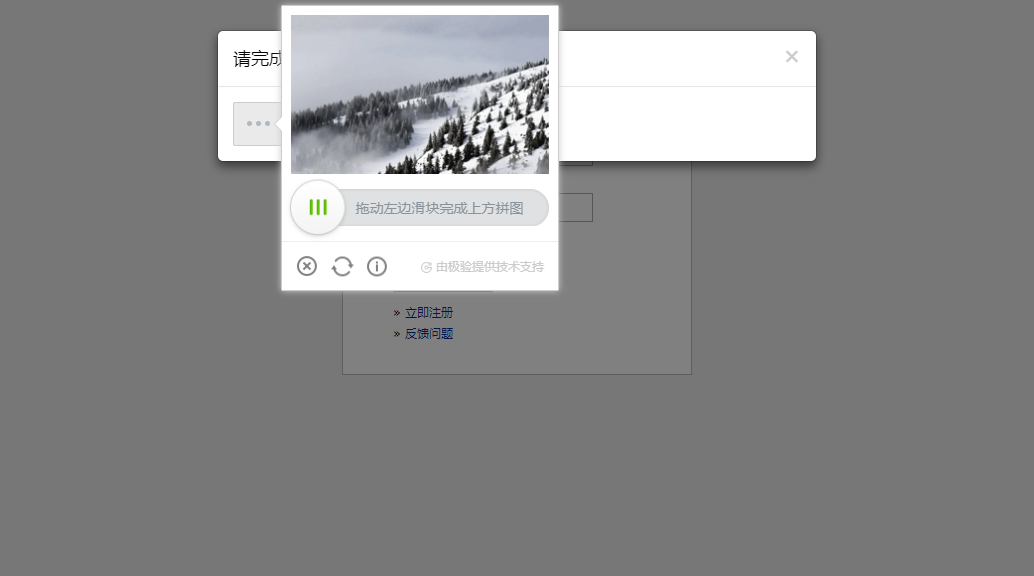
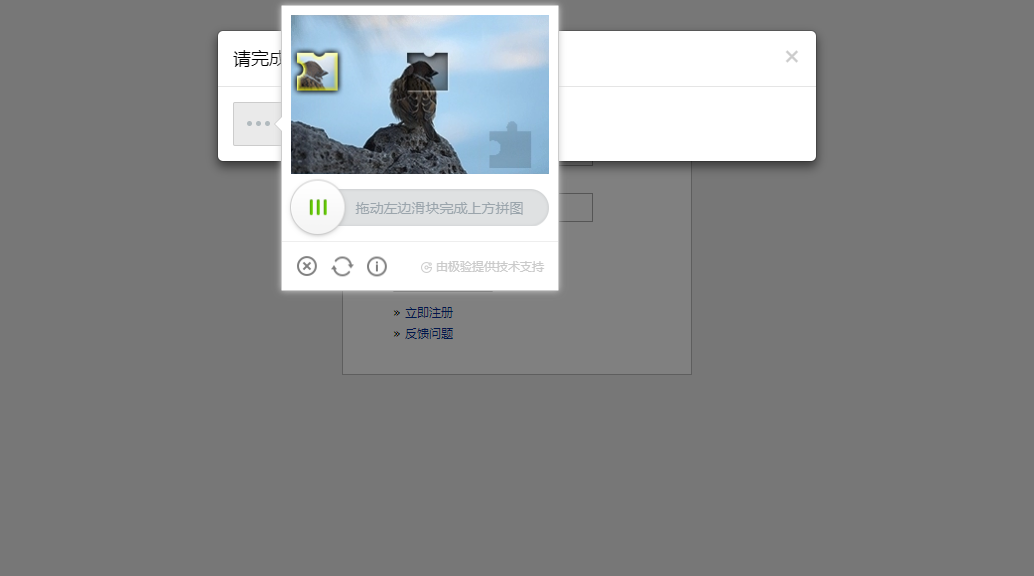
对比两张图片，找出缺口，即滑动的位移

Changed region(s): [[0.2785, 0.0, 0.5571, 0.3125]]

diff --git a/破解滑动验证码.py b/破解滑动验证码.py
@@ -25,10 +25,24 @@ def get_img(tiga):
 
     snap_obj=get_snap(tiga)
     image_obj = snap_obj.crop((left, top, right, bottom))
-    image_obj.show()
+    #image_obj.show()
     return image_obj
 
+def get_distance(image1,image2):
+    start_x=58
+    threhold=60
+    print(image1.size)#(258, 159)
+    print(image2.size)#(258, 159)
+    for x in range(start_x,image1.size[0]):
+        for y in range(image1.size[1]):
+            rgb1=image1.load()[x,y]
+            rgb2=image2.load()[x,y]
 
+            res1=abs(rgb1[0]-rgb2[0])
+            res2=abs(rgb1[1]-rgb2[1])
+            res3=abs(rgb1[2]-rgb2[2])
+            if not (res1 < threhold and res2 < threhold and res3 < threhold):
+                return x-7
 
 
 tiga=webdriver.Chrome()
@@ -60,6 +74,11 @@ try:
 
     # 5、针对有缺口的图片进行截图
     image2=get_img(tiga)
+
+    #6、对比两张图片，找出缺口，即滑动的位移
+    distance=get_distance(image1,image2)
+    print(distance)
+
 
     time.sleep(10)
 
